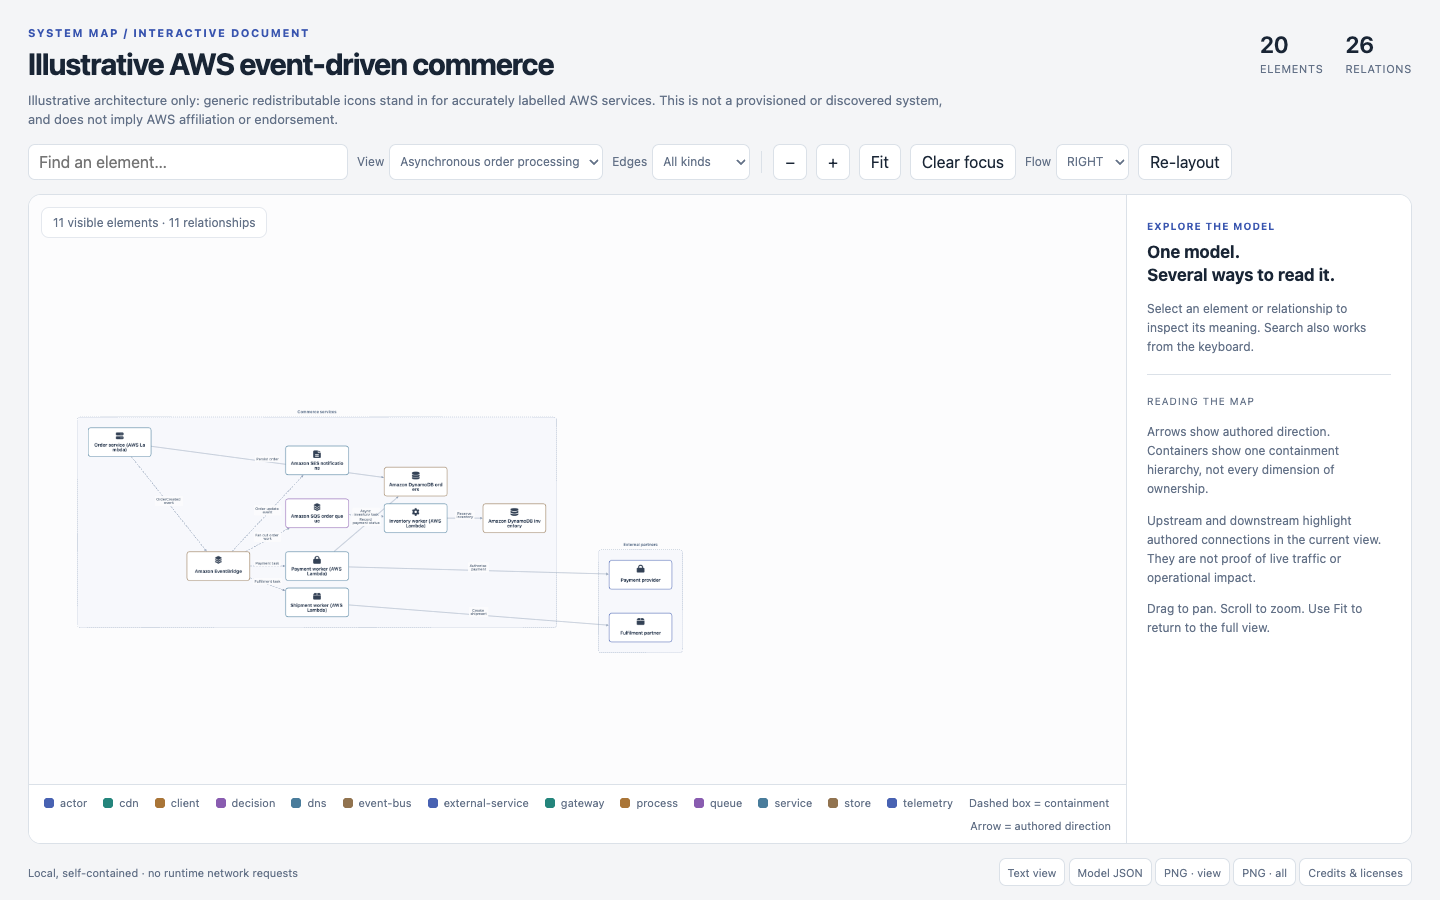
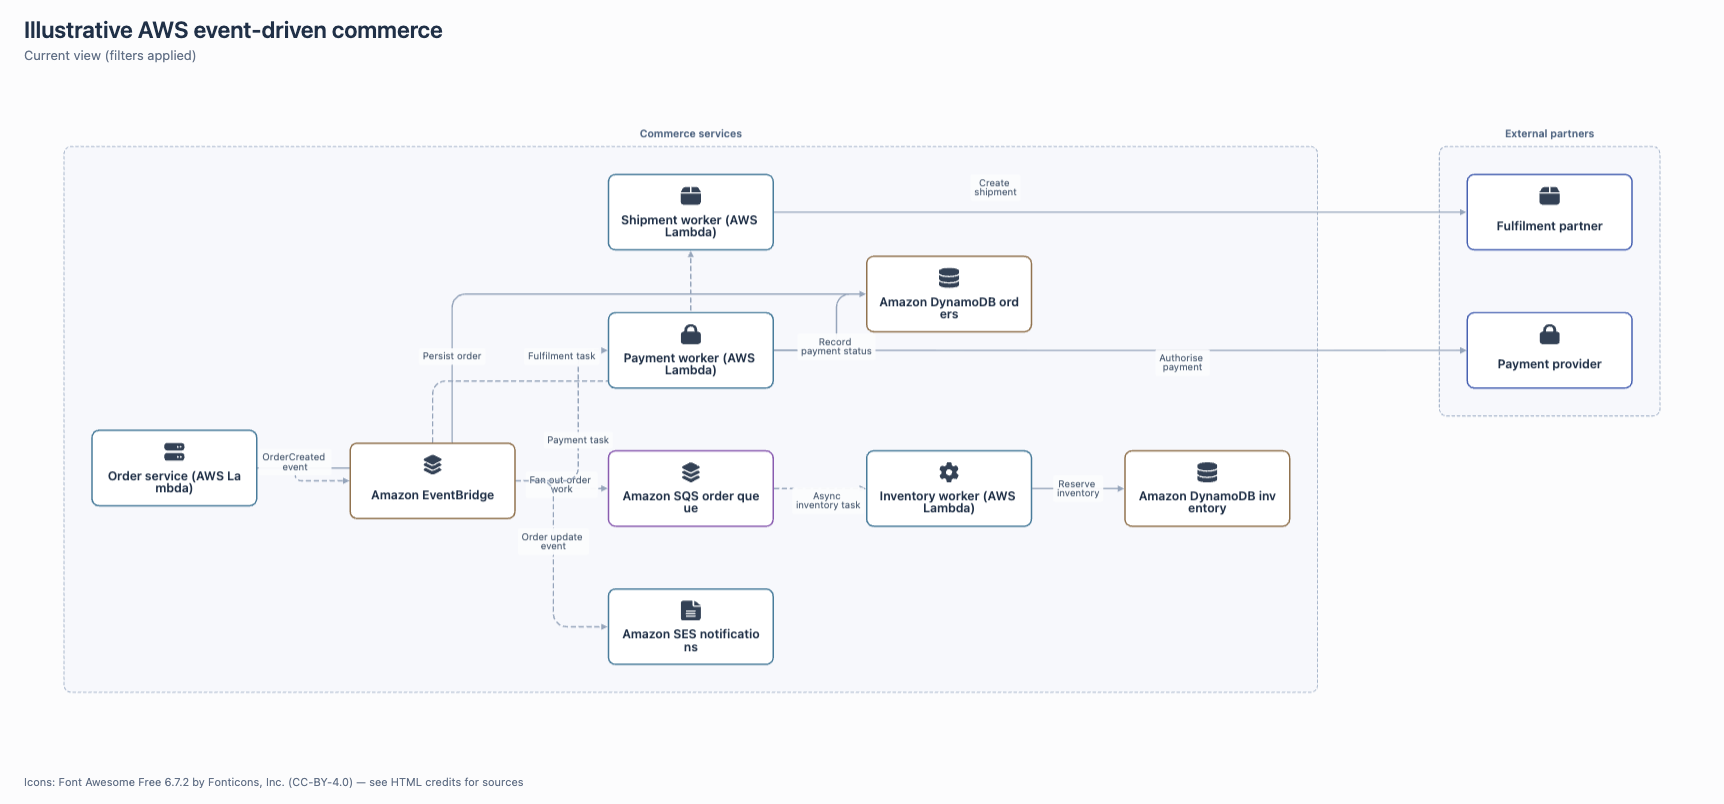
Polish diagram previews and routing

diff --git a/assets/viewer.js b/assets/viewer.js
@@ -57,17 +57,19 @@ const nodes=model.nodes.map(n=>{
   const height=Math.max(86,displayLabel.split('\n').length*19+(n.icon?46:26));
   return {data:{id:n.id,label:n.label,displayLabel,kind:n.kind||'element',...(n.parent?{parent:n.parent}:{}),width,height,icon:icons[n.icon]||null,color:colors.get(n.kind||'element')||'#7c8899'}};
 });
-const edges=model.edges.map(e=>({data:{id:e.id,source:e.source,target:e.target,label:e.label||'',kind:e.kind||'flow',directed:e.directed!==false}}));
+const routeTurns=['32%','41%','50%','59%','68%'];
+const routeLabelOffsets=[-28,-14,0,14,28];
+const edges=model.edges.map((e,i)=>({data:{id:e.id,source:e.source,target:e.target,label:e.label||'',kind:e.kind||'flow',directed:e.directed!==false,routeTurn:routeTurns[i%routeTurns.length],routeLabelOffset:routeLabelOffsets[i%routeLabelOffsets.length]}}));
 const cy=api.cy=cytoscape({
   container:$('cy'),elements:{nodes,edges},layout:{name:'preset'},
-  minZoom:0.08,maxZoom:3.5,pixelRatio:Math.min(window.devicePixelRatio||1,2),
+  minZoom:0.03,maxZoom:3.5,pixelRatio:Math.min(window.devicePixelRatio||1,2),
   autoungrabify:true,boxSelectionEnabled:false,
   style:[
     {selector:'node',style:{'shape':'round-rectangle','width':'data(width)','height':'data(height)','background-color':'#ffffff','border-width':1.7,'border-color':'data(color)','label':'data(displayLabel)','font-family':'system-ui','font-size':14,'font-weight':600,'color':'#203047','text-valign':'center','text-halign':'center','text-wrap':'wrap','text-max-width':164,'text-justification':'center','text-margin-y':0,'padding':0,'overlay-opacity':0}},
     {selector:'node[icon]',style:{'background-image':n=>n.data('icon')||'none','background-fit':'none','background-width':23,'background-height':23,'background-position-x':'50%','background-position-y':'13px','text-margin-y':16}},
     {selector:'node:parent',style:{'shape':'round-rectangle','background-color':'#e8edf7','background-opacity':0.28,'border-color':'#a9b7cc','border-width':1.2,'border-style':'dashed','padding':30,'label':'data(label)','font-size':12,'font-weight':600,'color':'#526783','text-valign':'top','text-halign':'center','text-margin-y':-9,'compound-sizing-wrt-labels':'include','background-image':'none','text-wrap':'wrap','text-max-width':300}},
-    {selector:'edge',style:{'curve-style':'bezier','line-color':'#96a5bb','target-arrow-color':'#96a5bb','target-arrow-shape':e=>e.data('directed')?'triangle':'none','width':1.6,'arrow-scale':0.85,'label':'data(label)','font-family':'system-ui','font-size':11,'color':'#526277','text-background-color':'#fcfcfd','text-background-opacity':0.95,'text-background-padding':4,'text-background-shape':'roundrectangle','text-wrap':'wrap','text-max-width':Math.max(44,Math.min(120,(model.layout?.layerSpacing||120)-20)),'text-rotation':'none','text-margin-y':-9,'control-point-step-size':52,'loop-direction':'-45deg','loop-sweep':'55deg','overlay-opacity':0}},
-    {selector:'edge:loop',style:{'control-point-step-size':150,'loop-direction':'0deg','loop-sweep':'65deg'}},
+    {selector:'edge',style:{'curve-style':'round-taxi','taxi-direction':'auto','taxi-turn':'data(routeTurn)','taxi-turn-min-distance':32,'line-color':'#96a5bb','target-arrow-color':'#96a5bb','target-arrow-shape':e=>e.data('directed')?'triangle':'none','width':1.6,'arrow-scale':0.85,'label':'data(label)','font-family':'system-ui','font-size':11,'color':'#526277','text-background-color':'#fcfcfd','text-background-opacity':0.95,'text-background-padding':4,'text-background-shape':'roundrectangle','text-wrap':'wrap','text-max-width':Math.max(44,Math.min(120,(model.layout?.layerSpacing||120)-20)),'text-rotation':'none','text-margin-y':'data(routeLabelOffset)','loop-direction':'-45deg','loop-sweep':'55deg','overlay-opacity':0}},
+    {selector:'edge:loop',style:{'curve-style':'bezier','control-point-step-size':150,'loop-direction':'0deg','loop-sweep':'65deg'}},
     {selector:'edge[kind="event"], edge[kind="async"]',style:{'line-style':'dashed'}},
     {selector:'.dim',style:{'opacity':0.17}},
     {selector:'node.highlight',style:{'border-width':3,'border-color':'#304ba5'}},
@@ -135,21 +137,25 @@ function inspect(id,mode){
   }
 }
 function fit(){if(cy.nodes(':visible').length)cy.fit(cy.elements(':visible'),48);}
+async function arrange(elements){
+  const spacing=model.layout?.spacing||65,layerSpacing=model.layout?.layerSpacing||120;
+  const elk={'elk.algorithm':'layered','elk.direction':$('direction').value,'elk.hierarchyHandling':'INCLUDE_CHILDREN','elk.edgeRouting':'ORTHOGONAL','elk.spacing.nodeNode':spacing,'elk.spacing.edgeNode':Math.max(32,spacing/2),'elk.spacing.edgeEdge':24,'elk.layered.spacing.nodeNodeBetweenLayers':layerSpacing,'elk.layered.spacing.edgeNodeBetweenLayers':Math.max(36,layerSpacing/3),'elk.layered.spacing.edgeEdgeBetweenLayers':24,'elk.padding':'[top=40,left=40,bottom=40,right=40]','elk.randomSeed':17};
+  await new Promise((resolve,reject)=>{
+    const timer=setTimeout(()=>reject(new Error('Layout exceeded 15 seconds. Split the diagram or use an explicitly configured worker integration.')),15000);
+    const success=()=>{clearTimeout(timer);pendingFailure=null;resolve();};
+    pendingFailure=e=>{clearTimeout(timer);reject(e);};
+    elements.layout({name:'elk',fit:false,animate:false,nodeDimensionsIncludeLabels:false,nodeLayoutOptions:node=>node.isParent()?{...elk,'elk.padding':'[top=50,left=36,bottom=36,right=36]'}:{},elk,stop:success}).run();
+  });
+}
 async function layout(){
   if(busy||failed)return false;
   busy=true;api.state='layout';api.layoutRuns++;setStatus('Arranging elements with ELK…');
   document.querySelectorAll('.toolbar button,.toolbar select,#png-view,#png-all').forEach(b=>b.disabled=true);
-  cy.elements().removeClass('hidden dim highlight');
+  cy.elements().removeClass('dim highlight');
   try{
-    if(model.nodes.length){
-      await new Promise((resolve,reject)=>{
-        const timer=setTimeout(()=>reject(new Error('Layout exceeded 15 seconds. Split the diagram or use an explicitly configured worker integration.')),15000);
-        const success=()=>{clearTimeout(timer);pendingFailure=null;resolve();};
-        pendingFailure=e=>{clearTimeout(timer);reject(e);};
-        cy.layout({name:'elk',fit:false,animate:false,nodeDimensionsIncludeLabels:false,
-          nodeLayoutOptions:node=>node.isParent()?{'elk.padding':'[top=50,left=36,bottom=36,right=36]','elk.direction':$('direction').value,'elk.spacing.nodeNode':model.layout?.spacing||65,'elk.layered.spacing.nodeNodeBetweenLayers':model.layout?.layerSpacing||120}:{},
-          elk:{'elk.algorithm':'layered','elk.direction':$('direction').value,'elk.hierarchyHandling':'INCLUDE_CHILDREN','elk.spacing.nodeNode':model.layout?.spacing||65,'elk.layered.spacing.nodeNodeBetweenLayers':model.layout?.layerSpacing||120,'elk.padding':'[top=40,left=40,bottom=40,right=40]','elk.randomSeed':17},stop:success}).run();
-      });
+    const visible=cy.elements(':visible');
+    if(visible.nodes().length){
+      await arrange(visible);
       const bad=cy.nodes().filter(n=>!Number.isFinite(n.position('x'))||!Number.isFinite(n.position('y')));
       if(bad.length)throw new Error('Non-finite node coordinates.');
     }
@@ -161,13 +167,20 @@ function download(blob,name){const url=URL.createObjectURL(blob);const a=el('a')
 async function exportPNG(all=false){
   if(busy||failed)throw new Error('The diagram must be ready before export.');
   const states=cy.elements().map(e=>({id:e.id(),classes:e.classes()}));
+  const positions=new Map(cy.nodes().filter(n=>!n.isParent()).map(n=>[n.id(),{x:n.position('x'),y:n.position('y')}]));
+  const viewport={zoom:cy.zoom(),pan:cy.pan()};
+  busy=true;api.state='export';document.querySelectorAll('.toolbar button,.toolbar select,#png-view,#png-all').forEach(b=>b.disabled=true);
   cy.elements().removeClass('dim highlight');if(all)cy.elements().removeClass('hidden');
   try{
     if(!cy.nodes(':visible').length)throw new Error('This view has no elements to export.');
-    const uri=cy.png({full:true,bg:'#fcfcfd',scale:2,maxWidth:3600,maxHeight:2600});
+    if(all)await arrange(cy.elements());
+    cy.fit(cy.elements(':visible'),48);
+    const uri=cy.png({full:false,bg:'#fcfcfd',maxWidth:1752,maxHeight:1040});
     const img=new Image();img.src=uri;await img.decode();
-    const canvas=document.createElement('canvas');canvas.width=Math.max(img.width+48,800);canvas.height=img.height+160;
-    const ctx=canvas.getContext('2d');ctx.fillStyle='#fcfcfd';ctx.fillRect(0,0,canvas.width,canvas.height);ctx.drawImage(img,(canvas.width-img.width)/2,88);
+    const bounds=cy.elements(':visible').renderedBoundingBox({includeLabels:true,includeOverlays:false}),scaleX=img.width/cy.width(),scaleY=img.height/cy.height(),padding=24;
+    const sx=Math.max(0,(bounds.x1-padding)*scaleX),sy=Math.max(0,(bounds.y1-padding)*scaleY),sw=Math.min(img.width-sx,(bounds.w+padding*2)*scaleX),sh=Math.min(img.height-sy,(bounds.h+padding*2)*scaleY);
+    const canvas=document.createElement('canvas');canvas.width=Math.max(Math.ceil(sw)+48,800);canvas.height=Math.ceil(sh)+160;
+    const ctx=canvas.getContext('2d');ctx.fillStyle='#fcfcfd';ctx.fillRect(0,0,canvas.width,canvas.height);ctx.drawImage(img,sx,sy,sw,sh,(canvas.width-sw)/2,88,sw,sh);
     ctx.fillStyle='#203047';ctx.font='600 23px system-ui';ctx.fillText(model.title,24,38,canvas.width-48);
     ctx.font='13px system-ui';ctx.fillStyle='#637187';ctx.fillText(all?'All authored elements':'Current view (filters applied)',24,60);
     // Keep attribution attached to raster exports as well as HTML.
@@ -175,7 +188,10 @@ async function exportPNG(all=false){
     ctx.font='11px system-ui';const label=attribution?`Icons: ${attribution} — see HTML credits for sources`:'Generated with Cytoscape.js + ELK.js';
     ctx.fillText(label,24,canvas.height-18,canvas.width-48);
     return await new Promise((resolve,reject)=>canvas.toBlob(b=>b?resolve(b):reject(new Error('PNG encoding failed.')),'image/png'));
-  }finally{cy.batch(()=>states.forEach(s=>cy.getElementById(s.id).classes(s.classes)));}
+  }finally{
+    cy.batch(()=>{cy.nodes().filter(n=>!n.isParent()).positions(n=>positions.get(n.id()));states.forEach(s=>cy.getElementById(s.id).classes(s.classes));});
+    cy.viewport(viewport);pendingFailure=null;busy=false;if(!failed){api.state='ready';document.querySelectorAll('.toolbar button,.toolbar select,#png-view,#png-all').forEach(b=>b.disabled=false);setStatus(`${cy.nodes(':visible').filter(n=>!n.isParent()).length} visible elements · ${cy.edges(':visible').length} relationships`);}
+  }
 }
 function table(headers,rows){const t=el('table'),head=el('thead'),tr=el('tr');headers.forEach(h=>tr.append(el('th',h)));head.append(tr);t.append(head);const body=el('tbody');rows.forEach(row=>{const r=el('tr');row.forEach(v=>r.append(el('td',v)));body.append(r);});t.append(body);return t;}
 $('text-content').append(el('h3','Elements'),table(['ID','Label','Kind','Parent'],model.nodes.map(n=>[n.id,n.label,n.kind||'element',n.parent||'—'])),el('h3','Relationships'),table(['From','To','Label','Kind','Direction'],model.edges.map(e=>[nmap.get(e.source)?.label,nmap.get(e.target)?.label,e.label||'—',e.kind||'flow',e.directed===false?'Undirected':'Directed'])));
@@ -190,7 +206,7 @@ $('search').addEventListener('input',()=>{
   if(!matches.length)$('results').append(el('p','No matching elements.','secondary'));
 });
 $('search').addEventListener('keydown',e=>{if(e.key==='Escape'){$('results').replaceChildren();$('search').value='';}if(e.key==='Enter')$('results').querySelector('button')?.click();});
-$('view').addEventListener('change',()=>{currentView=$('view').value;applyFilter();fit();});
+$('view').addEventListener('change',async()=>{currentView=$('view').value;applyFilter();await layout();});
 $('edge-kind').addEventListener('change',()=>{currentKind=$('edge-kind').value;applyFilter();});
 $('direction').addEventListener('change',()=>layout());
 on('fit',fit);on('clear',clearFocus);on('relayout',()=>layout());
@@ -201,8 +217,10 @@ on('png-all',async()=>{try{download(await exportPNG(true),'diagram-all.png');}ca
 on('png-view',async()=>{try{download(await exportPNG(false),'diagram-view.png');}catch(e){setStatus(e.message,true);}});
 on('text-view',()=>$('text-dialog').showModal());on('credits',()=>$('credits-dialog').showModal());
 document.querySelectorAll('[data-close]').forEach(b=>b.addEventListener('click',()=>$(b.dataset.close).close()));
-new ResizeObserver(()=>{cy.resize();}).observe($('cy'));
-Object.assign(api,{layout,focus,clearFocus,exportPNG,setView:(id,kind='all')=>{currentView=id;currentKind=kind;$('view').value=id;$('edge-kind').value=kind;applyFilter();},fit});
+let resizeFrame=null;
+new ResizeObserver(()=>{cancelAnimationFrame(resizeFrame);resizeFrame=requestAnimationFrame(()=>{cy.resize();if(api.state==='ready')fit();});}).observe($('cy'));
+async function setView(id,kind='all'){currentView=id;currentKind=kind;$('view').value=id;$('edge-kind').value=kind;applyFilter();return layout();}
+Object.assign(api,{layout,focus,clearFocus,exportPNG,setView,fit});
 api.ready=(async()=>{
   try{
     await document.fonts.ready;

diff --git a/scripts/browser_check.py b/scripts/browser_check.py
@@ -49,11 +49,24 @@ AUDIT = r'''() => {
    if(Math.min(a.bb.x2,b.bb.x2)-Math.max(a.bb.x1,b.bb.x1)>1&&Math.min(a.bb.y2,b.bb.y2)-Math.max(a.bb.y1,b.bb.y1)>1)errors.push('Leaf overlap: '+a.id+' / '+b.id);
  }
  if(document.documentElement.scrollWidth>innerWidth+2)errors.push('Horizontal page overflow');
+ const graph=cy.elements(':visible').renderedBoundingBox({includeLabels:true,includeOverlays:false});
+ const centerOffset={x:Math.abs((graph.x1+graph.x2)/2-cy.width()/2),y:Math.abs((graph.y1+graph.y2)/2-cy.height()/2)};
+ if(leaves.length&&(centerOffset.x>8||centerOffset.y>8))errors.push(`Visible graph is not centered: ${centerOffset.x.toFixed(1)}px × ${centerOffset.y.toFixed(1)}px offset`);
+ if(leaves.length&&(graph.x1<-1||graph.y1<-1||graph.x2>cy.width()+1||graph.y2>cy.height()+1))errors.push('Visible graph is clipped by the canvas bounds.');
+ const routes=cy.edges(':visible').map(e=>({id:e.id(),source:e.source().id(),target:e.target().id(),style:e.pstyle('curve-style').value,points:[...(e._private.rscratch.allpts||[])]}));
+ for(const route of routes){
+   if(route.source!==route.target&&route.style!=='round-taxi')errors.push('Non-loop edge is not round-taxi routed: '+route.id);
+   if(route.points.some(v=>!Number.isFinite(v)))errors.push('Non-finite routed edge geometry: '+route.id);
+ }
+ for(let i=0;i<routes.length;i++)for(let j=i+1;j<routes.length;j++){
+   const a=routes[i],b=routes[j],same=a.source===b.source&&a.target===b.target,reverse=a.source===b.target&&a.target===b.source;
+   if((same||reverse)&&a.points.length&&JSON.stringify(a.points)===JSON.stringify(reverse?[...b.points].reverse():b.points))errors.push('Coincident parallel route: '+a.id+' / '+b.id);
+ }
  const labelPixels=cy.zoom()*14;
  if(leaves.length&&labelPixels<10)warnings.push('Overview text below 10 CSS px. Use a focused view or zoom; do not call this screenshot readable.');
  const iconStyles=cy.nodes().filter(n=>n.data('icon')).map(n=>({id:n.id(),fit:n.style('background-fit'),width:n.pstyle('background-width').pfValue[0],height:n.pstyle('background-height').pfValue[0]}));
  for(const n of iconStyles)if(n.fit!=='none'||n.width>32||n.height>32)errors.push('Icon scaling regression: '+n.id);
- return {state:a.state,viewerErrors:a.errors,cytoscapeVersion:cytoscape.version,nodes:nodes.length,leaves:leaves.length,edges:cy.edges().length,visibleEdges:cy.edges(':visible').length,zoom:cy.zoom(),labelPixels,errors,warnings,geometry:nodes,iconStyles};
+ return {state:a.state,viewerErrors:a.errors,cytoscapeVersion:cytoscape.version,nodes:nodes.length,leaves:leaves.length,edges:cy.edges().length,visibleEdges:cy.edges(':visible').length,zoom:cy.zoom(),labelPixels,centerOffset,routes,errors,warnings,geometry:nodes,iconStyles};
 }'''
 
 def run(artifact: Path, out: Path, mode='file', executable=None):
@@ -89,8 +102,12 @@ def run(artifact: Path, out: Path, mode='file', executable=None):
                         page.evaluate('(id) => __DIAGRAM__.focus(id,"downstream")',leaves[0])
                         after=page.evaluate('(id) => __DIAGRAM__.cy.getElementById(id).width()',leaves[0])
                         if before!=after:result['errors'].append('Highlight changed node width.')
+                        viewport=page.evaluate('() => ({zoom:__DIAGRAM__.cy.zoom(),pan:__DIAGRAM__.cy.pan()})')
                         blob=page.evaluate('''async () => {const b=await __DIAGRAM__.exportPNG(true);return await new Promise(resolve=>{const r=new FileReader();r.onload=()=>resolve(r.result);r.readAsDataURL(b);});}''')
                         png=out/'export-all.png';png.write_bytes(base64.b64decode(blob.split(',',1)[1]));result['pngExport']=str(png.resolve())
+                        png_size=page.evaluate('''async data => {const i=new Image();i.src=data;await i.decode();return [i.width,i.height]}''',blob)
+                        if png_size[0]>1800 or png_size[1]>1200:result['errors'].append(f'PNG exceeds 1800×1200: {png_size[0]}×{png_size[1]}')
+                        if viewport!=page.evaluate('() => ({zoom:__DIAGRAM__.cy.zoom(),pan:__DIAGRAM__.cy.pan()})'):result['errors'].append('PNG export changed the viewport.')
                         page.evaluate('() => __DIAGRAM__.clearFocus()')
                     if source!=page.evaluate('() => JSON.stringify(__DIAGRAM__.model)'):result['errors'].append('Viewer mutated the source model.')
                     page.click('#text-view');page.click('[data-close="text-dialog"]')

diff --git a/tests/run_browser.py b/tests/run_browser.py
@@ -66,16 +66,18 @@ def run(out,mode):
    assert max(abs(x[k]-y[k]) for x,y in zip(a,b) for k in ['x','y'])<.1,(a,b)
   exercise('repeat-layout-stability',knowledge,repeat)
   def filtered(page,m):
-   page.evaluate('() => __DIAGRAM__.setView("assets")')
+   full=page.evaluate('() => __DIAGRAM__.cy.elements(":visible").boundingBox().w')
+   page.evaluate('async () => await __DIAGRAM__.setView("assets")')
    visible=page.evaluate('() => __DIAGRAM__.cy.nodes(":visible").map(n=>n.id()).sort()')
    assert visible==['editor','library','production','studio'],visible
    assert page.evaluate('() => __DIAGRAM__.cy.edges(":visible").map(e=>e.id())')==['save']
+   assert page.evaluate('() => __DIAGRAM__.cy.elements(":visible").boundingBox().w')<full
    before=page.evaluate('() => __DIAGRAM__.cy.getElementById("editor").width()')
    page.evaluate('() => __DIAGRAM__.focus("editor","downstream")')
    assert before==page.evaluate('() => __DIAGRAM__.cy.getElementById("editor").width()')
    assert page.evaluate('() => __DIAGRAM__.layout()') is True
    assert page.evaluate('() => __DIAGRAM__.cy.edges(":visible").map(e=>e.id())')==['save']
-   page.evaluate('() => __DIAGRAM__.setView("all")')
+   page.evaluate('async () => await __DIAGRAM__.setView("all")')
    assert page.evaluate('() => __DIAGRAM__.cy.edges(":visible").length')==len(m['edges'])
   exercise('filter-ancestors-and-relayout',creative,filtered)
   def highlight(page,m):
@@ -87,14 +89,18 @@ def run(out,mode):
    assert a==['answers','knowledge','reports'],a
   exercise('upstream-downstream-semantics',knowledge,highlight)
   def export_restore(page,m):
-   page.evaluate('() => {__DIAGRAM__.setView("assets");__DIAGRAM__.focus("editor");}')
+   page.evaluate('async () => {await __DIAGRAM__.setView("assets");__DIAGRAM__.focus("editor");}')
    state=page.evaluate('() => __DIAGRAM__.cy.elements().map(e=>[e.id(),e.classes()])')
+   positions=page.evaluate('() => __DIAGRAM__.cy.nodes().filter(n=>!n.isParent()).map(n=>[n.id(),n.position()])')
+   viewport=page.evaluate('() => ({zoom:__DIAGRAM__.cy.zoom(),pan:__DIAGRAM__.cy.pan()})')
    for all_ in [False,True]:
-    assert page.evaluate('''async (all) => {const blob=await __DIAGRAM__.exportPNG(all);const url=URL.createObjectURL(blob);const img=new Image();img.src=url;await img.decode();URL.revokeObjectURL(url);return blob.type==='image/png'&&img.width>0&&img.height>0;}''',all_)
-    assert state==page.evaluate('() => __DIAGRAM__.cy.elements().map(e=>[e.id(),e.classes()])')
+    assert page.evaluate('''async (all) => {const blob=await __DIAGRAM__.exportPNG(all);const url=URL.createObjectURL(blob);const img=new Image();img.src=url;await img.decode();URL.revokeObjectURL(url);return blob.type==='image/png'&&img.width>0&&img.height>0&&img.width<=1800&&img.height<=1200;}''',all_)
+    current_state=page.evaluate('() => __DIAGRAM__.cy.elements().map(e=>[e.id(),e.classes()])');assert state==current_state,(state,current_state)
+    current_positions=page.evaluate('() => __DIAGRAM__.cy.nodes().filter(n=>!n.isParent()).map(n=>[n.id(),n.position()])');assert positions==current_positions,(positions,current_positions)
+    current_viewport=page.evaluate('() => ({zoom:__DIAGRAM__.cy.zoom(),pan:__DIAGRAM__.cy.pan()})');assert viewport==current_viewport,(viewport,current_viewport)
   exercise('png-view-all-restore',creative,export_restore)
   def search(page,m):
-   page.evaluate('() => __DIAGRAM__.setView("assets")');page.fill('#search','Client');page.press('#search','Enter')
+   page.evaluate('async () => await __DIAGRAM__.setView("assets")');page.fill('#search','Client');page.press('#search','Enter')
    assert page.evaluate('() => __DIAGRAM__.cy.getElementById("client").visible()')
    assert page.locator('#inspector h2').inner_text()=='Client'
    assert page.evaluate('() => __DIAGRAM__.cy.edges(":visible").length')==5

diff --git a/README.md b/README.md
@@ -11,13 +11,20 @@ PNG export are part of the workflow—not promises to implement later.
 
 ## Showcase gallery
 
-Each preview links to its editable JSON model:
+Each graph-only preview links to its editable JSON model:
 
-| Preview | Preview |
-| --- | --- |
-| [![Event-driven AWS commerce](assets/showcases/aws-commerce.png)](examples/aws-commerce.json) | [![OAuth/OIDC authentication](assets/showcases/oauth-oidc.png)](examples/oauth-oidc.json) |
-| [![Order-to-cash process](assets/showcases/order-to-cash.png)](examples/order-to-cash.json) | [![AI knowledge and retrieval](assets/showcases/ai-retrieval.png)](examples/ai-retrieval.json) |
-| [![CI/CD deployment and rollback](assets/showcases/cicd-rollback.png)](examples/cicd-rollback.json) | |
+<table>
+  <tr><th>Event-driven AWS commerce</th></tr>
+  <tr><td align="center"><a href="examples/aws-commerce.json"><img src="assets/showcases/aws-commerce.png" alt="Event-driven AWS commerce diagram"></a></td></tr>
+  <tr><th>OAuth/OIDC authentication</th></tr>
+  <tr><td align="center"><a href="examples/oauth-oidc.json"><img src="assets/showcases/oauth-oidc.png" alt="OAuth/OIDC authentication diagram"></a></td></tr>
+  <tr><th>Order-to-cash process</th></tr>
+  <tr><td align="center"><a href="examples/order-to-cash.json"><img src="assets/showcases/order-to-cash.png" alt="Order-to-cash process diagram"></a></td></tr>
+  <tr><th>AI knowledge and retrieval</th></tr>
+  <tr><td align="center"><a href="examples/ai-retrieval.json"><img src="assets/showcases/ai-retrieval.png" alt="AI knowledge and retrieval diagram"></a></td></tr>
+  <tr><th>CI/CD deployment and rollback</th></tr>
+  <tr><td align="center"><a href="examples/cicd-rollback.json"><img src="assets/showcases/cicd-rollback.png" alt="CI/CD deployment and rollback diagram"></a></td></tr>
+</table>
 
 The AWS view is illustrative and does not provision or discover infrastructure.
 
